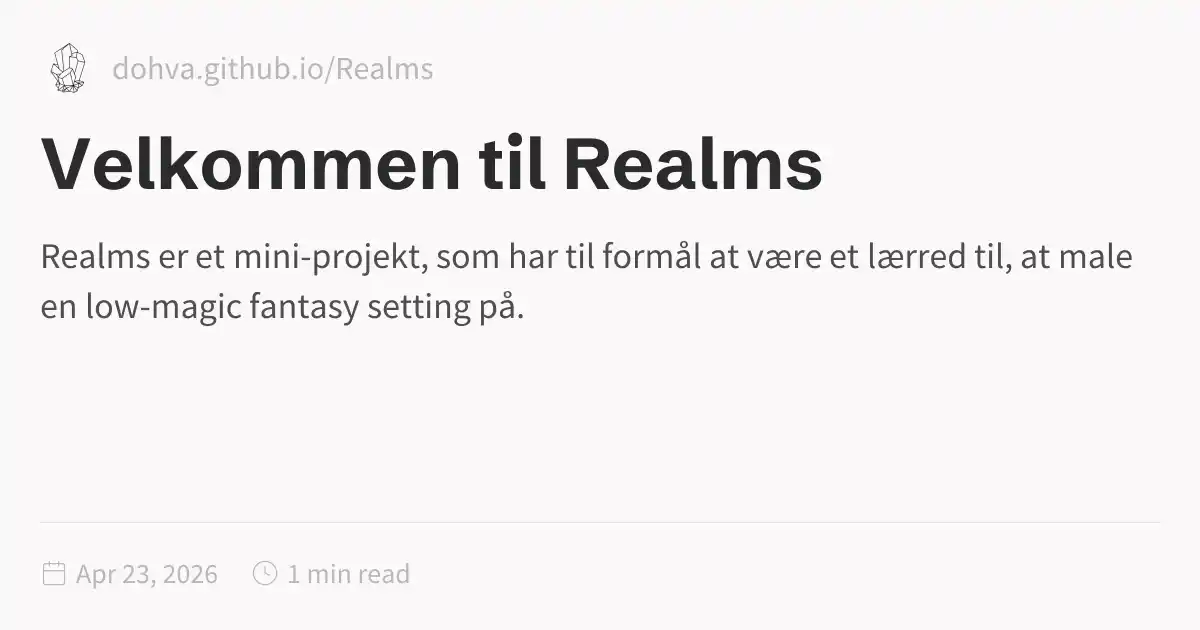
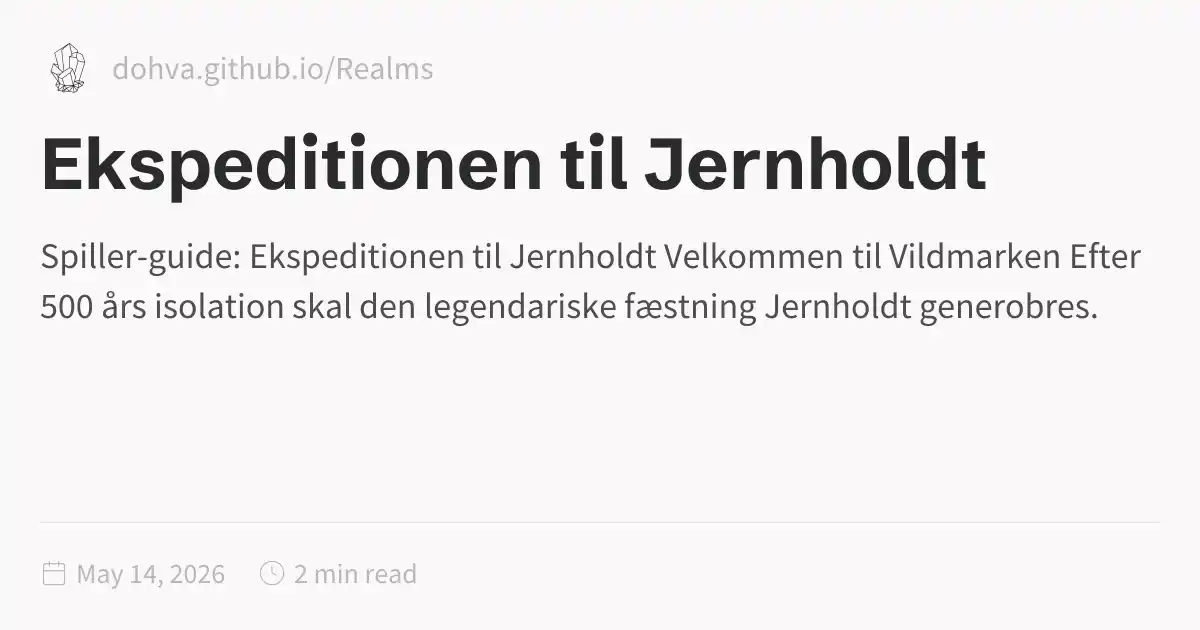
Deploy from main repo: 8be3d91fff7835828b9e1e03b17904742099bae1

diff --git a/index.html b/index.html
@@ -1,5 +1,5 @@
 <!DOCTYPE html>
-<html lang="en" dir="ltr"><head><title>Velkommen til Realms</title><meta charset="utf-8"/><link rel="preconnect" href="https://fonts.googleapis.com"/><link rel="preconnect" href="https://fonts.gstatic.com"/><link rel="stylesheet" href="https://fonts.googleapis.com/css2?family=Schibsted Grotesk:wght@400;700&amp;family=Source Sans Pro:ital,wght@0,400;0,600;1,400;1,600&amp;family=IBM Plex Mono:wght@400;600&amp;display=swap"/><link rel="preconnect" href="https://cdnjs.cloudflare.com" crossorigin="anonymous"/><meta name="viewport" content="width=device-width, initial-scale=1.0"/><meta name="og:site_name" content="Realms"/><meta property="og:title" content="Velkommen til Realms"/><meta property="og:type" content="website"/><meta name="twitter:card" content="summary_large_image"/><meta name="twitter:title" content="Velkommen til Realms"/><meta name="twitter:description" content="Realms er et mini-projekt, som har til formål at være et lærred til, at male en low-magic fantasy setting på."/><meta property="og:description" content="Realms er et mini-projekt, som har til formål at være et lærred til, at male en low-magic fantasy setting på."/><meta property="og:image:alt" content="Realms er et mini-projekt, som har til formål at være et lærred til, at male en low-magic fantasy setting på."/><meta property="twitter:domain" content="dohva.github.io/Realms"/><meta property="og:url" content="https://dohva.github.io/Realms/index"/><meta property="twitter:url" content="https://dohva.github.io/Realms/index"/><link rel="icon" href="./static/icon.png"/><meta name="description" content="Realms er et mini-projekt, som har til formål at være et lærred til, at male en low-magic fantasy setting på."/><meta name="generator" content="Quartz"/><link href="./index.css" rel="stylesheet" type="text/css" data-persist="true"/><style>.expand-button {
+<html lang="en" dir="ltr"><head><title>Ekspeditionen til Jernholdt</title><meta charset="utf-8"/><link rel="preconnect" href="https://fonts.googleapis.com"/><link rel="preconnect" href="https://fonts.gstatic.com"/><link rel="stylesheet" href="https://fonts.googleapis.com/css2?family=Schibsted Grotesk:wght@400;700&amp;family=Source Sans Pro:ital,wght@0,400;0,600;1,400;1,600&amp;family=IBM Plex Mono:wght@400;600&amp;display=swap"/><link rel="preconnect" href="https://cdnjs.cloudflare.com" crossorigin="anonymous"/><meta name="viewport" content="width=device-width, initial-scale=1.0"/><meta name="og:site_name" content="Realms"/><meta property="og:title" content="Ekspeditionen til Jernholdt"/><meta property="og:type" content="website"/><meta name="twitter:card" content="summary_large_image"/><meta name="twitter:title" content="Ekspeditionen til Jernholdt"/><meta name="twitter:description" content="Spiller-guide: Ekspeditionen til Jernholdt Velkommen til Vildmarken Efter 500 års isolation skal den legendariske fæstning Jernholdt generobres."/><meta property="og:description" content="Spiller-guide: Ekspeditionen til Jernholdt Velkommen til Vildmarken Efter 500 års isolation skal den legendariske fæstning Jernholdt generobres."/><meta property="og:image:alt" content="Spiller-guide: Ekspeditionen til Jernholdt Velkommen til Vildmarken Efter 500 års isolation skal den legendariske fæstning Jernholdt generobres."/><meta property="twitter:domain" content="dohva.github.io/Realms"/><meta property="og:url" content="https://dohva.github.io/Realms/index"/><meta property="twitter:url" content="https://dohva.github.io/Realms/index"/><link rel="icon" href="./static/icon.png"/><meta name="description" content="Spiller-guide: Ekspeditionen til Jernholdt Velkommen til Vildmarken Efter 500 års isolation skal den legendariske fæstning Jernholdt generobres."/><meta name="generator" content="Quartz"/><link href="./index.css" rel="stylesheet" type="text/css" data-persist="true"/><style>.expand-button {
   position: absolute;
   display: flex;
   float: right;
@@ -115,8 +115,25 @@ pre:hover > .expand-button {
   padding: 0 12px;
   font-size: 14px;
 }
[1 lines of base64/hex data omitted]
-<p>Lige nu kan du starte med <a href="./rakdam-fantasy/Lyse" class="internal" data-slug="rakdam-fantasy/Lyse">Lyse</a>, og så kommer der måske mere senere.</p></article><hr/><div class="page-footer"></div></div><div class="right sidebar"><div class="graph"><h3>Graph View</h3><div class="graph-outer"><div class="graph-container" data-cfg="{&quot;drag&quot;:true,&quot;zoom&quot;:true,&quot;depth&quot;:1,&quot;scale&quot;:1.1,&quot;repelForce&quot;:0.5,&quot;centerForce&quot;:0.3,&quot;linkDistance&quot;:30,&quot;fontSize&quot;:0.6,&quot;opacityScale&quot;:1,&quot;showTags&quot;:true,&quot;removeTags&quot;:[],&quot;focusOnHover&quot;:false,&quot;enableRadial&quot;:false}"></div><button class="global-graph-icon" aria-label="Global Graph"><svg version="1.1" xmlns="http://www.w3.org/2000/svg" xmlns:xlink="http://www.w3.org/1999/xlink" x="0px" y="0px" viewBox="0 0 55 55" fill="currentColor" xml:space="preserve"><path d="M49,0c-3.309,0-6,2.691-6,6c0,1.035,0.263,2.009,0.726,2.86l-9.829,9.829C32.542,17.634,30.846,17,29,17
[1 lines of base64/hex data omitted]
+<h2 id="velkommen-til-vildmarken">Velkommen til Vildmarken<a role="anchor" aria-hidden="true" tabindex="-1" data-no-popover="true" href="#velkommen-til-vildmarken" class="internal"><svg width="18" height="18" viewBox="0 0 24 24" fill="none" stroke="currentColor" stroke-width="2" stroke-linecap="round" stroke-linejoin="round"><path d="M10 13a5 5 0 0 0 7.54.54l3-3a5 5 0 0 0-7.07-7.07l-1.72 1.71"></path><path d="M14 11a5 5 0 0 0-7.54-.54l-3 3a5 5 0 0 0 7.07 7.07l1.71-1.71"></path></svg></a></h2>
+<p>Efter 500 års isolation skal den legendariske fæstning Jernholdt generobres. I er en del af en kongelig ekspedition bestående af alt fra adelige riddere til dømte fanger. Mens lejren kæmper for overlevelse bag murene, er I de eneste, der har modet til at udforske den utæmmede vildmark og dens glemte mysterier.</p>
+<h2 id="hvad-er-west-marches">Hvad er West Marches?<a role="anchor" aria-hidden="true" tabindex="-1" data-no-popover="true" href="#hvad-er-west-marches" class="internal"><svg width="18" height="18" viewBox="0 0 24 24" fill="none" stroke="currentColor" stroke-width="2" stroke-linecap="round" stroke-linejoin="round"><path d="M10 13a5 5 0 0 0 7.54.54l3-3a5 5 0 0 0-7.07-7.07l-1.72 1.71"></path><path d="M14 11a5 5 0 0 0-7.54-.54l-3 3a5 5 0 0 0 7.07 7.07l1.71-1.71"></path></svg></a></h2>
+<p>Denne kampagne adskiller sig fundamentalt fra traditionelle rollespil:</p>
+<ul>
+<li><strong>Spillerdrevet:</strong> I arrangerer selv sessioner, danner grupper og vælger jeres egne mål. Verden venter på jeres initiativ.</li>
+<li><strong>Statisk verden:</strong> Områderne skalerer ikke med jeres level. Overlevelse kræver ofte, at I flygter fra fjender, der er stærkere end jer.</li>
+<li><strong>Bedrifter frem for baggrund:</strong> Din heltestatus defineres ikke af din fortid, men af de dæmoner du dræber, og de skatte du bringer hjem nu.</li>
+</ul>
+<h2 id="fæstningen-og-faktioner">Fæstningen og Faktioner<a role="anchor" aria-hidden="true" tabindex="-1" data-no-popover="true" href="#fæstningen-og-faktioner" class="internal"><svg width="18" height="18" viewBox="0 0 24 24" fill="none" stroke="currentColor" stroke-width="2" stroke-linecap="round" stroke-linejoin="round"><path d="M10 13a5 5 0 0 0 7.54.54l3-3a5 5 0 0 0-7.07-7.07l-1.72 1.71"></path><path d="M14 11a5 5 0 0 0-7.54-.54l-3 3a5 5 0 0 0 7.07 7.07l1.71-1.71"></path></svg></a></h2>
+<p>Jernholdt udvikler sig gennem jeres valg. Ved at bringe ressourcer tilbage kan I opgradere lejren med smedjer eller templer, hvilket giver jer større indflydelse i ekspeditionen. Men vær varsom: Kirken, Kronen og Købmandslauget har modstridende dagsordener, og I må navigere i et politisk spil om magt og urgammel magi.</p>
+<h2 id="spillerdrevet">Spillerdrevet<a role="anchor" aria-hidden="true" tabindex="-1" data-no-popover="true" href="#spillerdrevet" class="internal"><svg width="18" height="18" viewBox="0 0 24 24" fill="none" stroke="currentColor" stroke-width="2" stroke-linecap="round" stroke-linejoin="round"><path d="M10 13a5 5 0 0 0 7.54.54l3-3a5 5 0 0 0-7.07-7.07l-1.72 1.71"></path><path d="M14 11a5 5 0 0 0-7.54-.54l-3 3a5 5 0 0 0 7.07 7.07l1.71-1.71"></path></svg></a></h2>
+<p>Overlevelse kræver koordination mellem alle deltagere på tværs af sessioner:</p>
+<ol>
+<li><strong>Kortlægning:</strong> GM’en udleverer intet kort. Det er jeres ansvar at tegne, opdatere og dele kort over vildmarken med resten af serveren.</li>
+<li><strong>Ekspeditionsrapporter:</strong> Efter hver session skal der skrives en rapport. Dette sikrer, at vigtig viden om monstre, portaler og fund bliver delt, så ekspeditionen som helhed kan gøre fremskridt.</li>
+</ol>
+<p>Vildmarken er nådesløs, men rigdommene i Jernholdts skygge venter på dem, der tør tage dem.</p></article><hr/><div class="page-footer"></div></div><div class="right sidebar"><div class="graph"><h3>Graph View</h3><div class="graph-outer"><div class="graph-container" data-cfg="{&quot;drag&quot;:true,&quot;zoom&quot;:true,&quot;depth&quot;:1,&quot;scale&quot;:1.1,&quot;repelForce&quot;:0.5,&quot;centerForce&quot;:0.3,&quot;linkDistance&quot;:30,&quot;fontSize&quot;:0.6,&quot;opacityScale&quot;:1,&quot;showTags&quot;:true,&quot;removeTags&quot;:[],&quot;focusOnHover&quot;:false,&quot;enableRadial&quot;:false}"></div><button class="global-graph-icon" aria-label="Global Graph"><svg version="1.1" xmlns="http://www.w3.org/2000/svg" xmlns:xlink="http://www.w3.org/1999/xlink" x="0px" y="0px" viewBox="0 0 55 55" fill="currentColor" xml:space="preserve"><path d="M49,0c-3.309,0-6,2.691-6,6c0,1.035,0.263,2.009,0.726,2.86l-9.829,9.829C32.542,17.634,30.846,17,29,17
                 s-3.542,0.634-4.898,1.688l-7.669-7.669C16.785,10.424,17,9.74,17,9c0-2.206-1.794-4-4-4S9,6.794,9,9s1.794,4,4,4
                 c0.74,0,1.424-0.215,2.019-0.567l7.669,7.669C21.634,21.458,21,23.154,21,25s0.634,3.542,1.688,4.897L10.024,42.562
                 C8.958,41.595,7.549,41,6,41c-3.309,0-6,2.691-6,6s2.691,6,6,6s6-2.691,6-6c0-1.035-0.263-2.009-0.726-2.86l12.829-12.829
@@ -126,6 +143,6 @@ pre:hover > .expand-button {
                 C46.042,11.405,47.451,12,49,12c3.309,0,6-2.691,6-6S52.309,0,49,0z M11,9c0-1.103,0.897-2,2-2s2,0.897,2,2s-0.897,2-2,2
                 S11,10.103,11,9z M6,51c-2.206,0-4-1.794-4-4s1.794-4,4-4s4,1.794,4,4S8.206,51,6,51z M33,49c0,2.206-1.794,4-4,4s-4-1.794-4-4
                 s1.794-4,4-4S33,46.794,33,49z M29,31c-3.309,0-6-2.691-6-6s2.691-6,6-6s6,2.691,6,6S32.309,31,29,31z M47,41c0,1.103-0.897,2-2,2
-                s-2-0.897-2-2s0.897-2,2-2S47,39.897,47,41z M49,10c-2.206,0-4-1.794-4-4s1.794-4,4-4s4,1.794,4,4S51.206,10,49,10z"></path></svg></button></div><div class="global-graph-outer"><div class="global-graph-container" data-cfg="{&quot;drag&quot;:true,&quot;zoom&quot;:true,&quot;depth&quot;:-1,&quot;scale&quot;:0.9,&quot;repelForce&quot;:0.5,&quot;centerForce&quot;:0.2,&quot;linkDistance&quot;:30,&quot;fontSize&quot;:0.6,&quot;opacityScale&quot;:1,&quot;showTags&quot;:true,&quot;removeTags&quot;:[],&quot;focusOnHover&quot;:true,&quot;enableRadial&quot;:true}"></div></div></div></div><footer class><p>Created with <a href="https://quartz.jzhao.xyz/">Quartz v4.5.2</a> © 2026</p><ul><li><a href="https://github.com/jackyzha0/quartz">GitHub</a></li><li><a href="https://discord.gg/cRFFHYye7t">Discord Community</a></li></ul></footer></div></div></body><script type="application/javascript" data-persist="true">function n(){let t=this.parentElement;t.classList.toggle("is-collapsed");let e=t.getElementsByClassName("callout-content")[0];if(!e)return;let l=t.classList.contains("is-collapsed");e.style.gridTemplateRows=l?"0fr":"1fr"}function c(){let t=document.getElementsByClassName("callout is-collapsible");for(let e of t){let l=e.getElementsByClassName("callout-title")[0],s=e.getElementsByClassName("callout-content")[0];if(!l||!s)continue;l.addEventListener("click",n),window.addCleanup(()=>l.removeEventListener("click",n));let o=e.classList.contains("is-collapsed");s.style.gridTemplateRows=o?"0fr":"1fr"}}document.addEventListener("nav",c);
+                s-2-0.897-2-2s0.897-2,2-2S47,39.897,47,41z M49,10c-2.206,0-4-1.794-4-4s1.794-4,4-4s4,1.794,4,4S51.206,10,49,10z"></path></svg></button></div><div class="global-graph-outer"><div class="global-graph-container" data-cfg="{&quot;drag&quot;:true,&quot;zoom&quot;:true,&quot;depth&quot;:-1,&quot;scale&quot;:0.9,&quot;repelForce&quot;:0.5,&quot;centerForce&quot;:0.2,&quot;linkDistance&quot;:30,&quot;fontSize&quot;:0.6,&quot;opacityScale&quot;:1,&quot;showTags&quot;:true,&quot;removeTags&quot;:[],&quot;focusOnHover&quot;:true,&quot;enableRadial&quot;:true}"></div></div></div><div class="toc desktop-only"><button type="button" class="toc-header" aria-controls="toc-0" aria-expanded="true"><h3>Table of Contents</h3><svg xmlns="http://www.w3.org/2000/svg" width="24" height="24" viewBox="0 0 24 24" fill="none" stroke="currentColor" stroke-width="2" stroke-linecap="round" stroke-linejoin="round" class="fold"><polyline points="6 9 12 15 18 9"></polyline></svg></button><ul id="list-1" class="toc-content overflow"><li class="depth-0"><a href="#spiller-guide-ekspeditionen-til-jernholdt" data-for="spiller-guide-ekspeditionen-til-jernholdt">Spiller-guide: Ekspeditionen til Jernholdt</a></li><li class="depth-1"><a href="#velkommen-til-vildmarken" data-for="velkommen-til-vildmarken">Velkommen til Vildmarken</a></li><li class="depth-1"><a href="#hvad-er-west-marches" data-for="hvad-er-west-marches">Hvad er West Marches?</a></li><li class="depth-1"><a href="#fæstningen-og-faktioner" data-for="fæstningen-og-faktioner">Fæstningen og Faktioner</a></li><li class="depth-1"><a href="#spillerdrevet" data-for="spillerdrevet">Spillerdrevet</a></li><li class="overflow-end"></li></ul></div></div><footer class><p>Created with <a href="https://quartz.jzhao.xyz/">Quartz v4.5.2</a> © 2026</p><ul><li><a href="https://github.com/jackyzha0/quartz">GitHub</a></li><li><a href="https://discord.gg/cRFFHYye7t">Discord Community</a></li></ul></footer></div></div></body><script type="application/javascript" data-persist="true">function n(){let t=this.parentElement;t.classList.toggle("is-collapsed");let e=t.getElementsByClassName("callout-content")[0];if(!e)return;let l=t.classList.contains("is-collapsed");e.style.gridTemplateRows=l?"0fr":"1fr"}function c(){let t=document.getElementsByClassName("callout is-collapsible");for(let e of t){let l=e.getElementsByClassName("callout-title")[0],s=e.getElementsByClassName("callout-content")[0];if(!l||!s)continue;l.addEventListener("click",n),window.addCleanup(()=>l.removeEventListener("click",n));let o=e.classList.contains("is-collapsed");s.style.gridTemplateRows=o?"0fr":"1fr"}}document.addEventListener("nav",c);
 </script><script type="module" data-persist="true">function E(a,e){if(!a)return;function t(o){o.target===this&&(o.preventDefault(),o.stopPropagation(),e())}function n(o){o.key.startsWith("Esc")&&(o.preventDefault(),e())}a?.addEventListener("click",t),window.addCleanup(()=>a?.removeEventListener("click",t)),document.addEventListener("keydown",n),window.addCleanup(()=>document.removeEventListener("keydown",n))}function f(a){for(;a.firstChild;)a.removeChild(a.firstChild)}var m=class{constructor(e,t){this.container=e;this.content=t;this.setupEventListeners(),this.setupNavigationControls(),this.resetTransform()}isDragging=!1;startPan={x:0,y:0};currentPan={x:0,y:0};scale=1;MIN_SCALE=.5;MAX_SCALE=3;cleanups=[];setupEventListeners(){let e=this.onMouseDown.bind(this),t=this.onMouseMove.bind(this),n=this.onMouseUp.bind(this),o=this.onTouchStart.bind(this),r=this.onTouchMove.bind(this),i=this.onTouchEnd.bind(this),s=this.resetTransform.bind(this);this.container.addEventListener("mousedown",e),document.addEventListener("mousemove",t),document.addEventListener("mouseup",n),this.container.addEventListener("touchstart",o,{passive:!1}),document.addEventListener("touchmove",r,{passive:!1}),document.addEventListener("touchend",i),window.addEventListener("resize",s),this.cleanups.push(()=>this.container.removeEventListener("mousedown",e),()=>document.removeEventListener("mousemove",t),()=>document.removeEventListener("mouseup",n),()=>this.container.removeEventListener("touchstart",o),()=>document.removeEventListener("touchmove",r),()=>document.removeEventListener("touchend",i),()=>window.removeEventListener("resize",s))}cleanup(){for(let e of this.cleanups)e()}setupNavigationControls(){let e=document.createElement("div");e.className="mermaid-controls";let t=this.createButton("+",()=>this.zoom(.1)),n=this.createButton("-",()=>this.zoom(-.1)),o=this.createButton("Reset",()=>this.resetTransform());e.appendChild(n),e.appendChild(o),e.appendChild(t),this.container.appendChild(e)}createButton(e,t){let n=document.createElement("button");return n.textContent=e,n.className="mermaid-control-button",n.addEventListener("click",t),window.addCleanup(()=>n.removeEventListener("click",t)),n}onMouseDown(e){e.button===0&&(this.isDragging=!0,this.startPan={x:e.clientX-this.currentPan.x,y:e.clientY-this.currentPan.y},this.container.style.cursor="grabbing")}onMouseMove(e){this.isDragging&&(e.preventDefault(),this.currentPan={x:e.clientX-this.startPan.x,y:e.clientY-this.startPan.y},this.updateTransform())}onMouseUp(){this.isDragging=!1,this.container.style.cursor="grab"}onTouchStart(e){if(e.touches.length!==1)return;this.isDragging=!0;let t=e.touches[0];this.startPan={x:t.clientX-this.currentPan.x,y:t.clientY-this.currentPan.y}}onTouchMove(e){if(!this.isDragging||e.touches.length!==1)return;e.preventDefault();let t=e.touches[0];this.currentPan={x:t.clientX-this.startPan.x,y:t.clientY-this.startPan.y},this.updateTransform()}onTouchEnd(){this.isDragging=!1}zoom(e){let t=Math.min(Math.max(this.scale+e,this.MIN_SCALE),this.MAX_SCALE),n=this.content.getBoundingClientRect(),o=n.width/2,r=n.height/2,i=t-this.scale;this.currentPan.x-=o*i,this.currentPan.y-=r*i,this.scale=t,this.updateTransform()}updateTransform(){this.content.style.transform=`translate(${this.currentPan.x}px, ${this.currentPan.y}px) scale(${this.scale})`}resetTransform(){let t=this.content.querySelector("svg").getBoundingClientRect(),n=t.width/this.scale,o=t.height/this.scale;this.scale=1,this.currentPan={x:(this.container.clientWidth-n)/2,y:(this.container.clientHeight-o)/2},this.updateTransform()}},T=["--secondary","--tertiary","--gray","--light","--lightgray","--highlight","--dark","--darkgray","--codeFont"],y;document.addEventListener("nav",async()=>{let e=document.querySelector(".center").querySelectorAll("code.mermaid");if(e.length===0)return;y||=await import("https://cdnjs.cloudflare.com/ajax/libs/mermaid/11.4.0/mermaid.esm.min.mjs");let t=y.default,n=new WeakMap;for(let r of e)n.set(r,r.innerText);async function o(){for(let s of e){s.removeAttribute("data-processed");let c=n.get(s);c&&(s.innerHTML=c)}let r=T.reduce((s,c)=>(s[c]=window.getComputedStyle(document.documentElement).getPropertyValue(c),s),{}),i=document.documentElement.getAttribute("saved-theme")==="dark";t.initialize({startOnLoad:!1,securityLevel:"loose",theme:i?"dark":"base",themeVariables:{fontFamily:r["--codeFont"],primaryColor:r["--light"],primaryTextColor:r["--darkgray"],primaryBorderColor:r["--tertiary"],lineColor:r["--darkgray"],secondaryColor:r["--secondary"],tertiaryColor:r["--tertiary"],clusterBkg:r["--light"],edgeLabelBackground:r["--highlight"]}}),await t.run({nodes:e})}await o(),document.addEventListener("themechange",o),window.addCleanup(()=>document.removeEventListener("themechange",o));for(let r=0;r<e.length;r++){let v=function(){let g=l.querySelector("#mermaid-space"),h=l.querySelector(".mermaid-content");if(!h)return;f(h);let w=i.querySelector("svg").cloneNode(!0);h.appendChild(w),l.classList.add("active"),g.style.cursor="grab",u=new m(g,h)},M=function(){l.classList.remove("active"),u?.cleanup(),u=null},i=e[r],s=i.parentElement,c=s.querySelector(".clipboard-button"),d=s.querySelector(".expand-button"),p=window.getComputedStyle(c),L=c.offsetWidth+parseFloat(p.marginLeft||"0")+parseFloat(p.marginRight||"0");d.style.right=`calc(${L}px + 0.3rem)`,s.prepend(d);let l=s.querySelector("#mermaid-container");if(!l)return;let u=null;d.addEventListener("click",v),E(l,M),window.addCleanup(()=>{u?.cleanup(),d.removeEventListener("click",v)})}});
 </script><script src="https://cdn.jsdelivr.net/npm/katex@0.16.11/dist/contrib/copy-tex.min.js" type="application/javascript" data-persist="true"></script><script src="./postscript.js" type="module" data-persist="true"></script></html>

diff --git a/tags/index.html b/tags/index.html
@@ -115,6 +115,6 @@ pre:hover > .expand-button {
   padding: 0 12px;
   font-size: 14px;
 }
[2 lines of base64/hex data omitted]
 </script><script type="module" data-persist="true">function E(a,e){if(!a)return;function t(o){o.target===this&&(o.preventDefault(),o.stopPropagation(),e())}function n(o){o.key.startsWith("Esc")&&(o.preventDefault(),e())}a?.addEventListener("click",t),window.addCleanup(()=>a?.removeEventListener("click",t)),document.addEventListener("keydown",n),window.addCleanup(()=>document.removeEventListener("keydown",n))}function f(a){for(;a.firstChild;)a.removeChild(a.firstChild)}var m=class{constructor(e,t){this.container=e;this.content=t;this.setupEventListeners(),this.setupNavigationControls(),this.resetTransform()}isDragging=!1;startPan={x:0,y:0};currentPan={x:0,y:0};scale=1;MIN_SCALE=.5;MAX_SCALE=3;cleanups=[];setupEventListeners(){let e=this.onMouseDown.bind(this),t=this.onMouseMove.bind(this),n=this.onMouseUp.bind(this),o=this.onTouchStart.bind(this),r=this.onTouchMove.bind(this),i=this.onTouchEnd.bind(this),s=this.resetTransform.bind(this);this.container.addEventListener("mousedown",e),document.addEventListener("mousemove",t),document.addEventListener("mouseup",n),this.container.addEventListener("touchstart",o,{passive:!1}),document.addEventListener("touchmove",r,{passive:!1}),document.addEventListener("touchend",i),window.addEventListener("resize",s),this.cleanups.push(()=>this.container.removeEventListener("mousedown",e),()=>document.removeEventListener("mousemove",t),()=>document.removeEventListener("mouseup",n),()=>this.container.removeEventListener("touchstart",o),()=>document.removeEventListener("touchmove",r),()=>document.removeEventListener("touchend",i),()=>window.removeEventListener("resize",s))}cleanup(){for(let e of this.cleanups)e()}setupNavigationControls(){let e=document.createElement("div");e.className="mermaid-controls";let t=this.createButton("+",()=>this.zoom(.1)),n=this.createButton("-",()=>this.zoom(-.1)),o=this.createButton("Reset",()=>this.resetTransform());e.appendChild(n),e.appendChild(o),e.appendChild(t),this.container.appendChild(e)}createButton(e,t){let n=document.createElement("button");return n.textContent=e,n.className="mermaid-control-button",n.addEventListener("click",t),window.addCleanup(()=>n.removeEventListener("click",t)),n}onMouseDown(e){e.button===0&&(this.isDragging=!0,this.startPan={x:e.clientX-this.currentPan.x,y:e.clientY-this.currentPan.y},this.container.style.cursor="grabbing")}onMouseMove(e){this.isDragging&&(e.preventDefault(),this.currentPan={x:e.clientX-this.startPan.x,y:e.clientY-this.startPan.y},this.updateTransform())}onMouseUp(){this.isDragging=!1,this.container.style.cursor="grab"}onTouchStart(e){if(e.touches.length!==1)return;this.isDragging=!0;let t=e.touches[0];this.startPan={x:t.clientX-this.currentPan.x,y:t.clientY-this.currentPan.y}}onTouchMove(e){if(!this.isDragging||e.touches.length!==1)return;e.preventDefault();let t=e.touches[0];this.currentPan={x:t.clientX-this.startPan.x,y:t.clientY-this.startPan.y},this.updateTransform()}onTouchEnd(){this.isDragging=!1}zoom(e){let t=Math.min(Math.max(this.scale+e,this.MIN_SCALE),this.MAX_SCALE),n=this.content.getBoundingClientRect(),o=n.width/2,r=n.height/2,i=t-this.scale;this.currentPan.x-=o*i,this.currentPan.y-=r*i,this.scale=t,this.updateTransform()}updateTransform(){this.content.style.transform=`translate(${this.currentPan.x}px, ${this.currentPan.y}px) scale(${this.scale})`}resetTransform(){let t=this.content.querySelector("svg").getBoundingClientRect(),n=t.width/this.scale,o=t.height/this.scale;this.scale=1,this.currentPan={x:(this.container.clientWidth-n)/2,y:(this.container.clientHeight-o)/2},this.updateTransform()}},T=["--secondary","--tertiary","--gray","--light","--lightgray","--highlight","--dark","--darkgray","--codeFont"],y;document.addEventListener("nav",async()=>{let e=document.querySelector(".center").querySelectorAll("code.mermaid");if(e.length===0)return;y||=await import("https://cdnjs.cloudflare.com/ajax/libs/mermaid/11.4.0/mermaid.esm.min.mjs");let t=y.default,n=new WeakMap;for(let r of e)n.set(r,r.innerText);async function o(){for(let s of e){s.removeAttribute("data-processed");let c=n.get(s);c&&(s.innerHTML=c)}let r=T.reduce((s,c)=>(s[c]=window.getComputedStyle(document.documentElement).getPropertyValue(c),s),{}),i=document.documentElement.getAttribute("saved-theme")==="dark";t.initialize({startOnLoad:!1,securityLevel:"loose",theme:i?"dark":"base",themeVariables:{fontFamily:r["--codeFont"],primaryColor:r["--light"],primaryTextColor:r["--darkgray"],primaryBorderColor:r["--tertiary"],lineColor:r["--darkgray"],secondaryColor:r["--secondary"],tertiaryColor:r["--tertiary"],clusterBkg:r["--light"],edgeLabelBackground:r["--highlight"]}}),await t.run({nodes:e})}await o(),document.addEventListener("themechange",o),window.addCleanup(()=>document.removeEventListener("themechange",o));for(let r=0;r<e.length;r++){let v=function(){let g=l.querySelector("#mermaid-space"),h=l.querySelector(".mermaid-content");if(!h)return;f(h);let w=i.querySelector("svg").cloneNode(!0);h.appendChild(w),l.classList.add("active"),g.style.cursor="grab",u=new m(g,h)},M=function(){l.classList.remove("active"),u?.cleanup(),u=null},i=e[r],s=i.parentElement,c=s.querySelector(".clipboard-button"),d=s.querySelector(".expand-button"),p=window.getComputedStyle(c),L=c.offsetWidth+parseFloat(p.marginLeft||"0")+parseFloat(p.marginRight||"0");d.style.right=`calc(${L}px + 0.3rem)`,s.prepend(d);let l=s.querySelector("#mermaid-container");if(!l)return;let u=null;d.addEventListener("click",v),E(l,M),window.addCleanup(()=>{u?.cleanup(),d.removeEventListener("click",v)})}});
 </script><script src="https://cdn.jsdelivr.net/npm/katex@0.16.11/dist/contrib/copy-tex.min.js" type="application/javascript" data-persist="true"></script><script src="../postscript.js" type="module" data-persist="true"></script></html>
